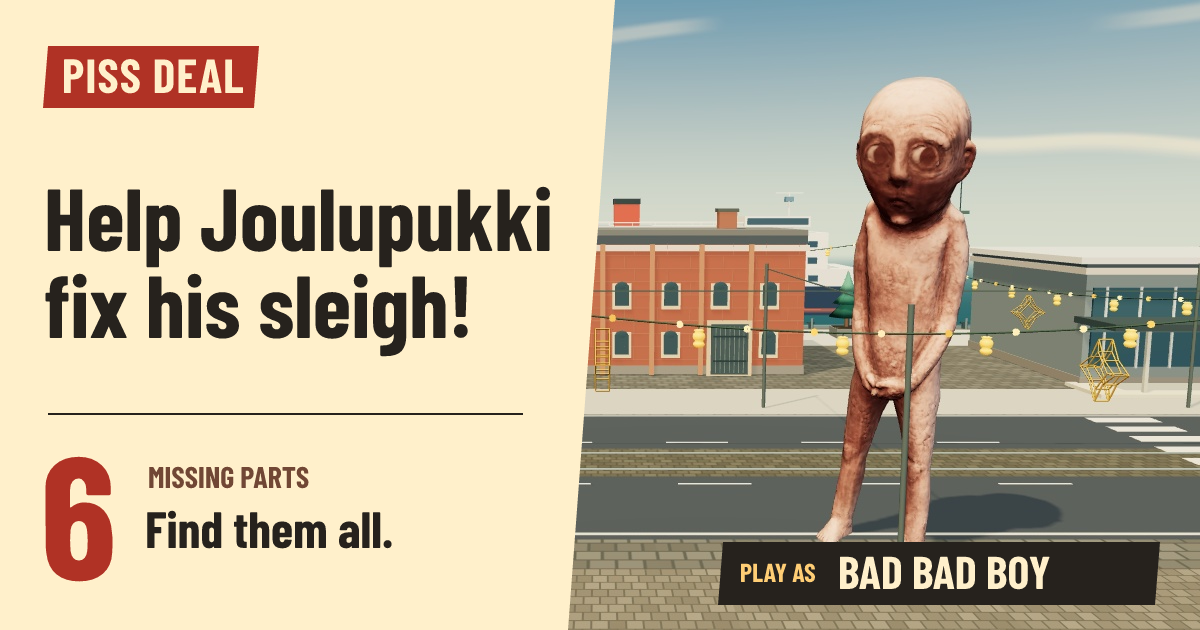
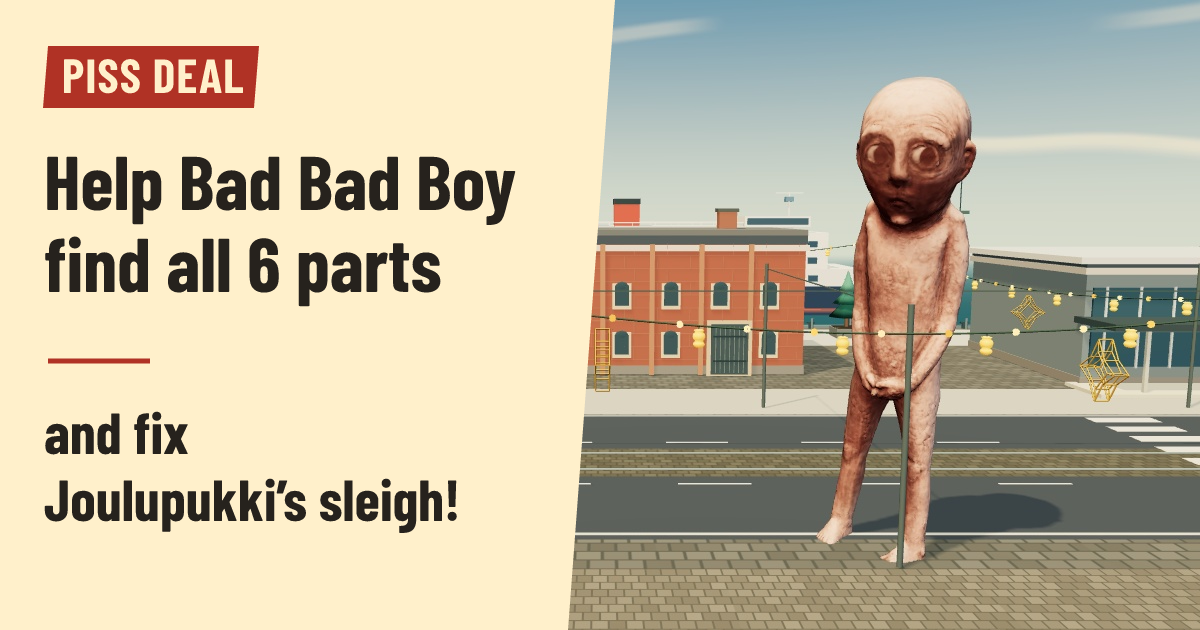
Ask players to help Bad Bad Boy find the six sleigh parts

Changed region(s): [[0.0308, 0.2413, 0.4625, 0.6032], [0.0308, 0.6333, 0.4317, 0.9349], [0.5858, 0.8444, 0.9867, 0.9651]]

diff --git a/index.html b/index.html
@@ -5,21 +5,21 @@
     <meta name="viewport" content="width=device-width, initial-scale=1, maximum-scale=1, user-scalable=no, viewport-fit=cover" />
     <meta name="theme-color" content="#12151f" />
     <title>Piss Deal</title>
-    <meta name="description" content="Play as Bad Bad Boy. Help Joulupukki fix his sleigh! Find all 6 missing parts." />
+    <meta name="description" content="Help Bad Bad Boy find all 6 missing parts and fix Joulupukki’s sleigh." />
     <link rel="canonical" href="https://bekharsky.github.io/piss-deal/" />
     <meta property="og:type" content="website" />
     <meta property="og:site_name" content="Piss Deal" />
     <meta property="og:title" content="Piss Deal — Bad Bad Boy in Helsinki" />
-    <meta property="og:description" content="Play as Bad Bad Boy. Help Joulupukki fix his sleigh! Find all 6 missing parts." />
+    <meta property="og:description" content="Help Bad Bad Boy find all 6 missing parts and fix Joulupukki’s sleigh." />
     <meta property="og:url" content="https://bekharsky.github.io/piss-deal/" />
-    <meta property="og:image" content="https://bekharsky.github.io/piss-deal/share-card.png?v=7" />
+    <meta property="og:image" content="https://bekharsky.github.io/piss-deal/share-card.png?v=8" />
     <meta property="og:image:type" content="image/png" />
     <meta property="og:image:width" content="1200" />
     <meta property="og:image:height" content="630" />
     <meta name="twitter:card" content="summary_large_image" />
     <meta name="twitter:title" content="Piss Deal — Bad Bad Boy in Helsinki" />
-    <meta name="twitter:description" content="Play as Bad Bad Boy. Help Joulupukki fix his sleigh! Find all 6 missing parts." />
-    <meta name="twitter:image" content="https://bekharsky.github.io/piss-deal/share-card.png?v=7" />
+    <meta name="twitter:description" content="Help Bad Bad Boy find all 6 missing parts and fix Joulupukki’s sleigh." />
+    <meta name="twitter:image" content="https://bekharsky.github.io/piss-deal/share-card.png?v=8" />
     <link rel="stylesheet" href="./style.css" />
     <!-- Cloudflare Web Analytics -->
     <script type="module" src="https://static.cloudflareinsights.com/beacon.min.js" data-cf-beacon='{"token": "48491b7e51fb426c8073f7b32b32b500"}'></script>
@@ -170,7 +170,7 @@
             <svg aria-hidden="true" focusable="false"><use href="#speaker-off" /></svg>
           </button>
           <h1 aria-label="Piss Deal">PISS <span class="title-accent">DEAL</span></h1>
-          <p class="campaign-brief">Play as Bad Bad Boy. Help Joulupukki fix his sleigh! Find all 6 missing parts.</p>
+          <p class="campaign-brief">Help Bad Bad Boy find all 6 missing parts and fix Joulupukki’s sleigh.</p>
           <div class="profile-row">
             <label class="player-profile" for="player-name">
               <span>PLAYER NAME</span>

diff --git a/share.js b/share.js
@@ -69,7 +69,7 @@ export function bindShareButtons({ gameButton, gameStatus, scoreButton, scoreSta
     try {
       await shareOrCopy({
         title: 'Piss Deal',
-        text: 'Play as Bad Bad Boy. Help Joulupukki fix his sleigh! Find all 6 missing parts.',
+        text: 'Help Bad Bad Boy find all 6 missing parts and fix Joulupukki’s sleigh.',
         url: GAME_URL,
       }, GAME_URL, gameStatus, 'Game link copied.');
     } finally {
@@ -99,7 +99,7 @@ export function bindShareButtons({ gameButton, gameStatus, scoreButton, scoreSta
         }
       }
 
-      const message = `${result.nickname} scored ${result.score.toLocaleString()} points in Piss Deal. Play as Bad Bad Boy. Help Joulupukki fix his sleigh! Find all 6 missing parts.`;
+      const message = `${result.nickname} scored ${result.score.toLocaleString()} points in Piss Deal. Help Bad Bad Boy find all 6 missing parts and fix Joulupukki’s sleigh.`;
       await shareOrCopy({
         title: `${result.score.toLocaleString()} points in Piss Deal`,
         text: message,
@@ -114,7 +114,7 @@ export function bindShareButtons({ gameButton, gameStatus, scoreButton, scoreSta
         if (navigator.share) {
           await navigator.share({
             title: `${result.score.toLocaleString()} points in Piss Deal`,
-            text: `${result.nickname} scored ${result.score.toLocaleString()} points in Piss Deal. Play as Bad Bad Boy. Help Joulupukki fix his sleigh! Find all 6 missing parts.`,
+            text: `${result.nickname} scored ${result.score.toLocaleString()} points in Piss Deal. Help Bad Bad Boy find all 6 missing parts and fix Joulupukki’s sleigh.`,
             url: fallbackUrl,
           });
         } else {

diff --git a/worker/share-card.js b/worker/share-card.js
@@ -15,16 +15,14 @@ export async function renderScoreCard({ nickname, score }) {
     <g font-family="Barlow Condensed" font-weight="700">
       <path fill="#b03225" d="M40 36H247L242 96H35Z"/>
       <text x="54" y="82" font-size="46" fill="#fff0cb">PISS DEAL</text>
-      <rect x="36" y="538" width="306" height="65" fill="#fff0cb"/>
-      <text x="56" y="584" font-size="43" fill="#26221d">BAD BAD BOY</text>
       <text x="681" y="93" font-size="40" fill="#fff0cb">${name}</text>
       <path d="M681 121H1153" stroke="#ffce75" stroke-width="2"/>
       <text x="675" y="286" font-size="${Math.min(148, Math.floor(880 / points.length))}" fill="#ffce75">${points}</text>
       <text x="682" y="337" font-size="38" letter-spacing="4" fill="#ffce75">POINTS</text>
       <path d="M681 384H1153" stroke="#8f8068" stroke-width="2"/>
-      <text x="679" y="456" font-size="51" fill="#fff0cb">Help Joulupukki</text>
-      <text x="679" y="511" font-size="51" fill="#fff0cb">fix his sleigh!</text>
-      <text x="681" y="579" font-size="34" fill="#ffce75">Find all 6 missing parts.</text></g></svg>`;
+      <text x="679" y="456" font-size="51" fill="#fff0cb">Help Bad Bad Boy</text>
+      <text x="679" y="511" font-size="51" fill="#fff0cb">find all 6 missing parts</text>
+      <text x="681" y="579" font-size="34" fill="#ffce75">and fix Joulupukki’s sleigh!</text></g></svg>`;
   const renderer = new Resvg(svg, {font:{fontBuffers:[new Uint8Array(font)]}});
   try {
     const image = renderer.render();

diff --git a/worker/index.js b/worker/index.js
@@ -120,10 +120,10 @@ async function serveScoreShare(request, env, id) {
   if (!result) return new Response('Score share not found.', { status: 404 });
 
   const pageUrl = new URL(`/share/${id}`, request.url).href;
-  const imageUrl = `${pageUrl}/card.png?v=7`;
+  const imageUrl = `${pageUrl}/card.png?v=8`;
   const formattedScore = Number(result.score).toLocaleString('en');
   const title = `${formattedScore} points in Piss Deal`;
-  const description = `${result.nickname} scored ${formattedScore} points in Piss Deal. Play as Bad Bad Boy. Help Joulupukki fix his sleigh! Find all 6 missing parts.`;
+  const description = `${result.nickname} scored ${formattedScore} points in Piss Deal. Help Bad Bad Boy find all 6 missing parts and fix Joulupukki’s sleigh.`;
 
   if (new URL(request.url).pathname.endsWith('/card.png')) {
     try {
